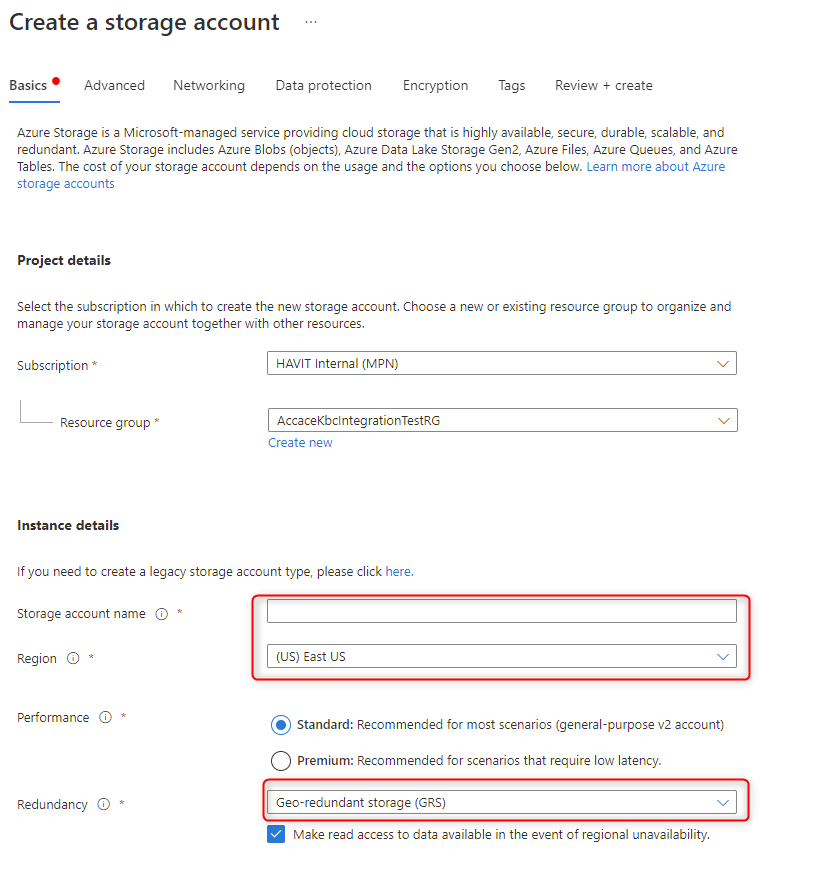
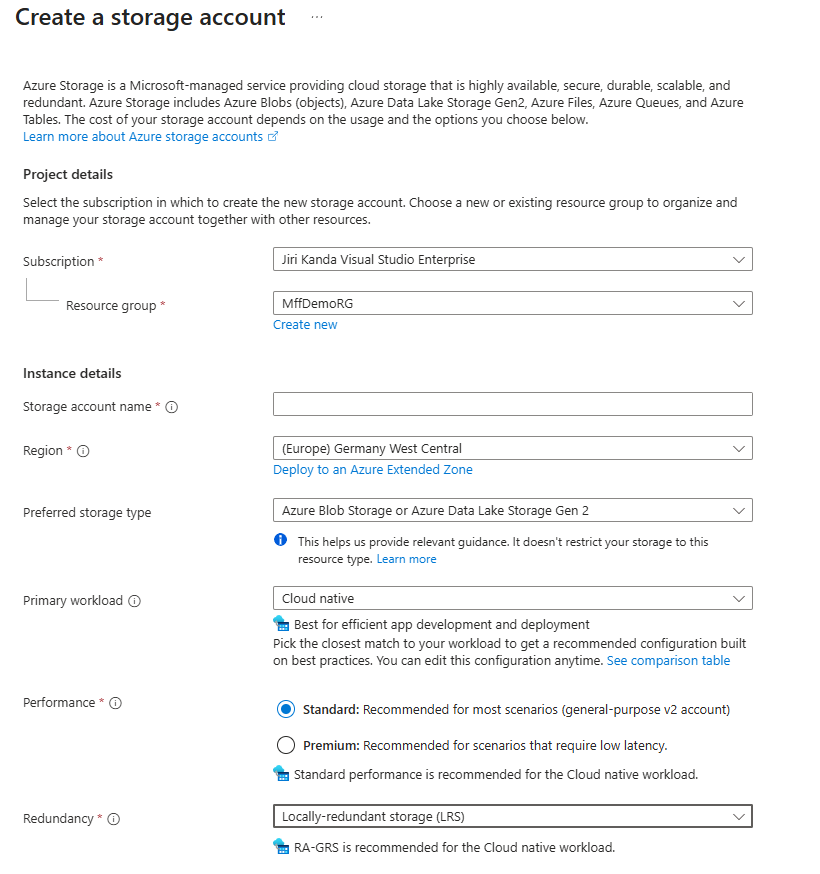
Update Lab3

diff --git a/Lab3-AzureBlobStorage/MyWebApplication/Pages/Index.cshtml.cs b/Lab3-AzureBlobStorage/MyWebApplication/Pages/Index.cshtml.cs
@@ -18,15 +18,17 @@ namespace MyWebApplication.Pages
 			Blobs = CreateClient().GetBlobs().ToList();
 		}
 
-		public FileStreamResult OnGetDownloadBlob(string blobName)
-		{
-			var blobClient = CreateClient().GetBlobClient(blobName);
-			var contentType = blobClient.GetProperties().Value.ContentType;
-			var stream = blobClient.OpenRead(); // není třeba řešit Dispose - stream nám uzavře infrastruktura Razor Pages.
-			return new FileStreamResult(stream, contentType);
-		}
+        public async Task<FileStreamResult> OnGetDownloadBlob(string blobName)
+        {            
+            var blobClient = CreateClient().GetBlobClient(blobName);
+            var stream = await blobClient.DownloadStreamingAsync();
+            return File(
+				stream.Value.Content,
+				stream.Value.Details.ContentType ?? "application/octet-stream",
+				blobName);
+        }
 
-		private BlobContainerClient CreateClient()
+        private BlobContainerClient CreateClient()
 		{
 			return new Azure.Storage.Blobs.BlobContainerClient(AzureStorageConnectionString, AzureStorageContainerName);
 		}

diff --git a/Lab3-AzureBlobStorage/README.md b/Lab3-AzureBlobStorage/README.md
@@ -7,8 +7,19 @@ Navážeme na projekt, který vznikl v [LAB1](../Lab1-AzureWebSiteDeployment/).
 * Dáme možnost stažení souboru (skrz aplikaci)
 
 1. Připravíme Azure Storage
-	1. Založíme Azure Storage (vyplníme název, zvolíme lokalitu a georedundanci dle vlastního uvážení). Ostatní hodnoty mohou zůstav ve výchozím nastavení.
+   1. Založíme Azure Storage. Vyplníme: 
+
+	* Název storage (lowercase, 3-24 znaků, pouze písmena a číslice)
+	* Lokalita
+	* Preferred storage type (Azure Blob Storage or Azure Data Lake Storage Gen 2)
+	* Primary workload (Cloud native)
+	* Performance (Standard)
+	* Redundancy (Locally-redundant storage (LRS))
+	
+      Ostatní hodnoty mohou zůstav ve výchozím nastavení.
+
 	![01 Create Azure Storage](img/01-Create-Azure-Storage.png)
+
 	2. Vytvoříme container
 	![02 Create Container](img/02-Create-Container.png)
 	3. Do aplikace budeme potřebovat ještě connection string.
